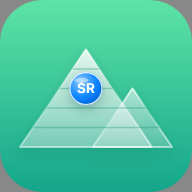
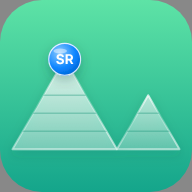
Rosen tracker: peaks meet at one corner, SR on the summit
Claude-Session: https://claude.ai/code/session_011jQqderacJY9KfRdcYmoMk

Changed region(s): [[0.0625, 0.2188, 0.9375, 0.8125]]

diff --git a/gpt100/sw.js b/gpt100/sw.js
@@ -1,5 +1,5 @@
 // Rosen tracker service worker: network first for the page, cache fallback when offline. Live data is never cached.
-const CACHE = 'rosen-v8';
+const CACHE = 'rosen-v9';
 const SHELL = ['./', './index.html', './manifest.webmanifest', './icon-192.png', './icon-512.png'];
 self.addEventListener('install', e => { e.waitUntil(caches.open(CACHE).then(c => c.addAll(SHELL)).catch(() => {})); self.skipWaiting(); });
 self.addEventListener('activate', e => { e.waitUntil(caches.keys().then(keys => Promise.all(keys.filter(k => k !== CACHE).map(k => caches.delete(k))))); self.clients.claim(); });
